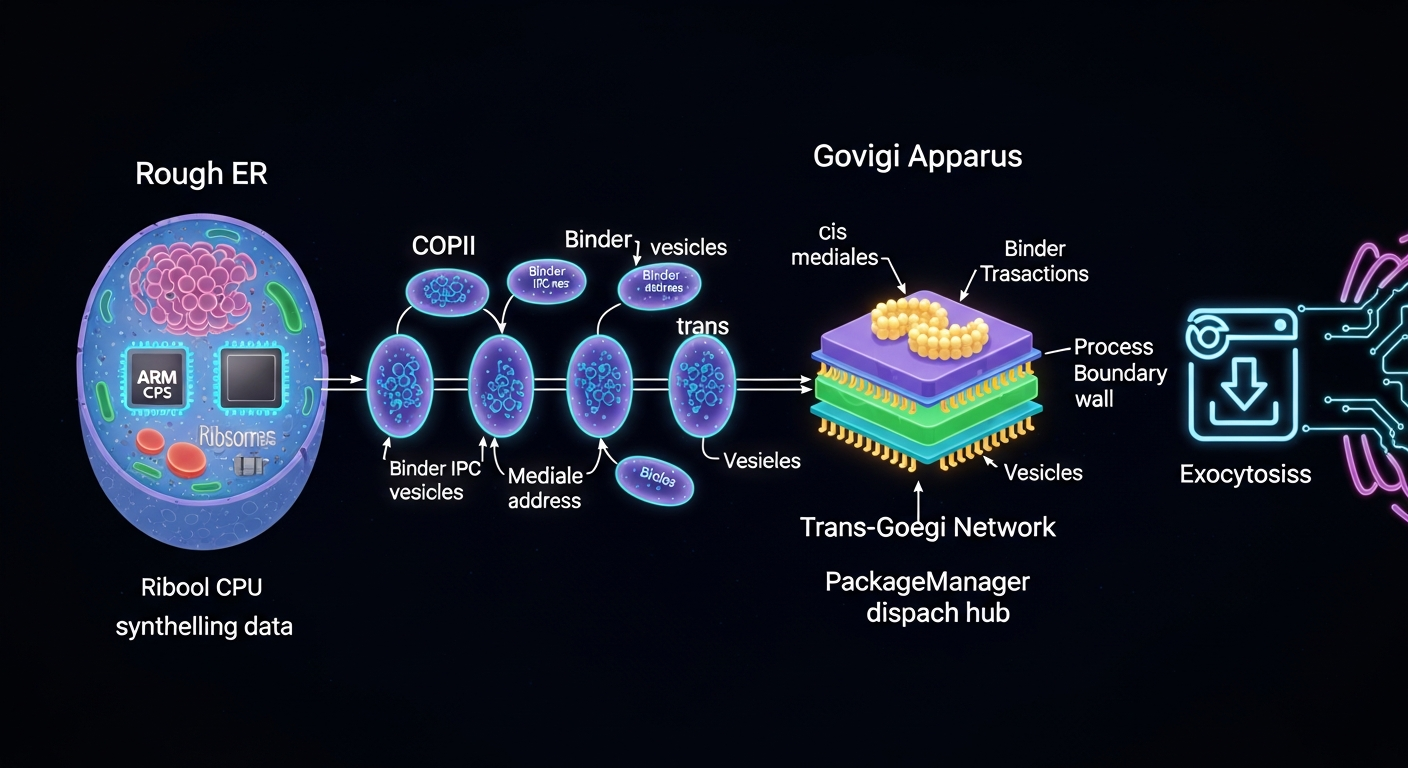
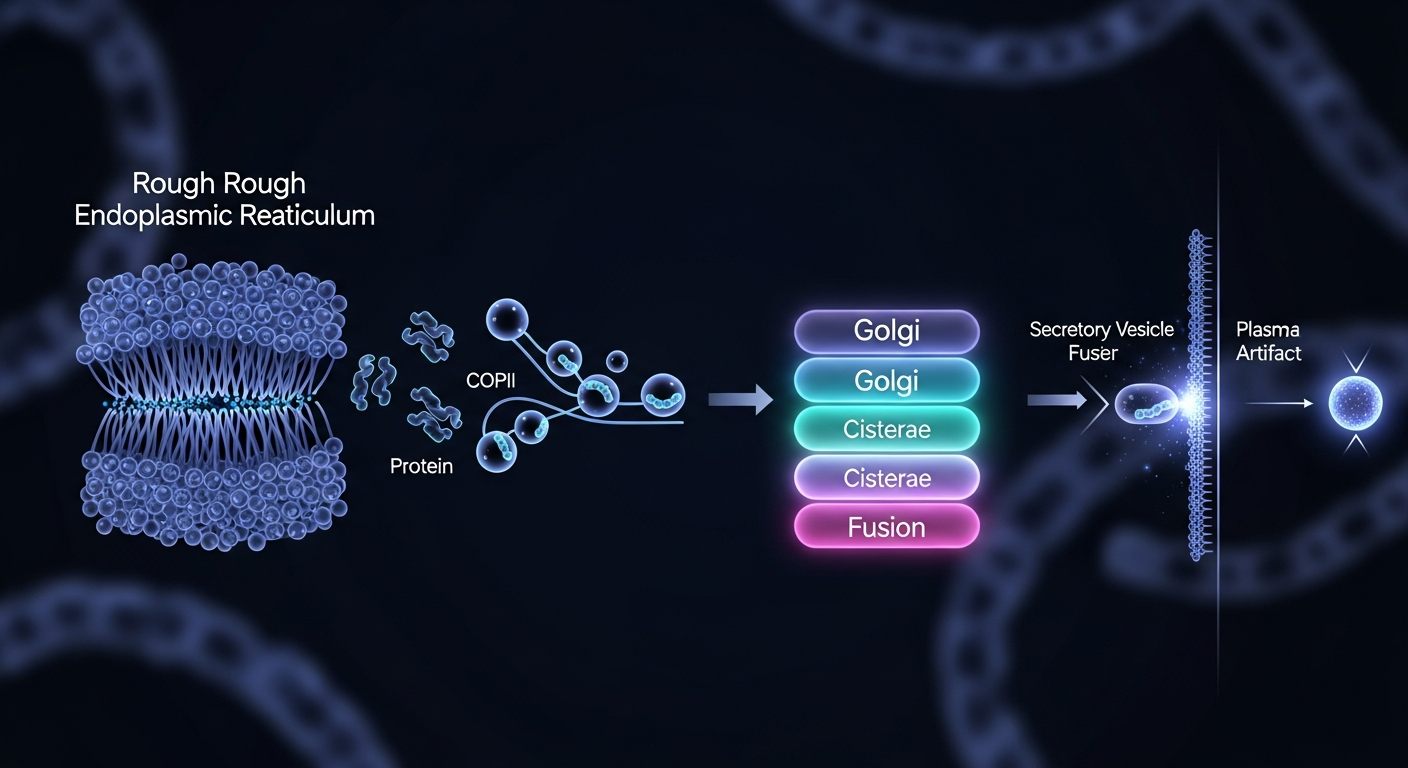
Update development forum with accuracy corrections and regenerate images
Fixes inaccuracies in the developer forum document, including zone IDs, scale definitions, coupling table values, code block syntax, persistence claims, API levels, routing descriptions, and biophoton weight representation. Regenerates two images to remove AI text artifacts.

Replit-Commit-Author: Agent
Replit-Commit-Session-Id: a63d2a4c-ce6d-4dfe-90c7-782e3523dac1
Replit-Commit-Checkpoint-Type: full_checkpoint
Replit-Commit-Event-Id: 143263ad-2268-465c-aafe-7b19629aaa83
Replit-Commit-Screenshot-Url: https://storage.googleapis.com/screenshot-production-us-central1/7aecbc02-2a0a-4613-a3d7-ad9ceed3b40e/a63d2a4c-ce6d-4dfe-90c7-782e3523dac1/O8Gu4pJ
Replit-Helium-Checkpoint-Created: true

diff --git a/artifacts/cell-os/docs/DEVELOPER_FORUM.md b/artifacts/cell-os/docs/DEVELOPER_FORUM.md
@@ -58,9 +58,9 @@ The QI tensor encodes this across three axes:
 
 | Axis | Dimension | Values |
 |---|---|---|
-| **Zone** (`z`) | 8 | nucleus, mitochondria, ribosomes, endoplasmic-reticulum, golgi, membrane, cytoskeleton, vacuole |
+| **Zone** (`z`) | 8 | nucleus, cytoplasm, cytoskeleton, ribosomes, mitochondria, golgi, endoplasmic-reticulum, membrane |
 | **Phase** (`p`) | 3 | perception, affect, expression |
-| **Scale** (`s`) | 11 | quantum, molecular, cellular, organic, textual, silicon, temporal, ecological, cosmological, social, mathematical |
+| **Scale** (`s`) | 11 | symbolic, quantum, molecular, cellular, organic, apparatus, textual, generational, relational, cosmic, silicon |
 
 Total tensor space: **8 × 3 × 11 = 264 cells**.
 
@@ -95,8 +95,8 @@ Each link couples a biological organelle to an Android/FP5 substrate component w
 | `golgi-apparatus` | `package-manager` | 0.85 | PackageManager (APK verify → dexopt → install) = trans-Golgi Network final dispatch. |
 | `golgi-apparatus` | `art-runtime` | 0.88 | dex2oat writes hardware-destination offsets = Golgi writes glycan address codes. |
 | `endoplasmic-reticulum` | `art-runtime` | 0.84 | BiP/calnexin quality gate + ERAD = ART verifier + JIT recompile + deopt/interpreter fallback. |
-| `cell-membrane` | `selinux` | high | SELinux Type Enforcement rules = tight junction paracellular seal. |
-| `mitochondria` | `powerhal` | 0.9 | PowerHAL thermal governor = mitochondrial electron transport chain throttling. |
+| `cell-membrane` | `selinux-policy` | 0.95 | SELinux Type Enforcement rules = tight junction paracellular seal. |
+| `mitochondria` | `powerhal` | 0.80 | PowerHAL thermal governor = mitochondrial electron transport chain throttling. |
 
 The full 41-link table is browsable on the `/substrate` surface.
 
@@ -119,7 +119,7 @@ The five secretory-pathway links in pathway order:
 | Link | $w$ | σ | IPC | Encodes |
 |---|---|---|---|---|
 | ribosomes → golgi | 0.62 | 0.7 | Messenger | mRNA-to-vesicle coherence; ART JIT→dex2oat dispatch |
-| ER → golgi | 0.16 | 0.6 | Ordered broadcast | ER→Golgi vesicle budding procession |
+| ER → golgi | *(derived)* | 0.6 | Ordered broadcast | ER→Golgi vesicle budding procession |
 | ER → lysosomes | 0.49 | 0.6 | Ordered broadcast | ER-phagy (FAM134B/RTN3 → autophagosome → bulk lysosomal degradation) |
 | ER → vesicles | 0.55 | 0.6 | Ordered broadcast | COPII budding (Sec23/Sec24 + Sec13/Sec31 + Sar1-GTP) |
 | vesicles → membrane | 0.65 | 0.7 | Messenger | SNARE exocytosis (VAMP2 + syntaxin-1 + SNAP-25, Ca²⁺/synaptotagmin) |
@@ -198,33 +198,32 @@ The classical eukaryotic secretory pathway is the clearest demonstration of the 
 ```ts
 // src/pages/documents.tsx — every line maps to a biological stage
 
-// Stage 1 — Ribosome: signal peptide detected → translation begins
-const handleGenerate = async () => {
-  if (sections.size === 0) return;              // ERAD: discard empty cargo immediately
+// Stage 1 — Ribosome: signal peptide detected, but no cargo → ERAD immediately
+if (sections.size === 0) return;
 
-  // Stage 2 — COPII coat assembly (on demand — lazy, like Sar1-GTP):
-  const { jsPDF } = await import("jspdf");
-  await import("jspdf-autotable");
+// Stage 2 — COPII coat assembly: lazy dynamic import (Sar1-GTP fires on demand)
+const { default: jsPDF }     = await import("jspdf");
+const { default: autoTable } = await import("jspdf-autotable");
 
-  // ER Exit Site: cargo concentrated before budding
-  const metrics = computeManifoldMetrics();
+// ER Exit Site: cargo concentrated before budding
+const metrics = computeManifoldMetrics();
 
-  // Stage 3 — Golgi: new cisterna opened
-  const doc = new jsPDF({ orientation: "portrait", format: "a4" });
+// Stage 3 — Golgi: cisternae open in sequence; each addSectionHeader = new cisterna
+//   signature: addSectionHeader(title: string, color: [R, G, B]) — no doc/y args
+//   y cursor advances internally (the ribosome reading frame never retreats)
+const doc = new jsPDF({ orientation: "portrait", unit: "mm", format: "a4" });
 
-  // Cisternae sequential processing (cis → medial → trans → TGN):
-  addSectionHeader(doc, "§ Manifold Metrics", y);        // cis
-  addSectionHeader(doc, "§ Organelle Mapping", y);       // medial
-  addSectionHeader(doc, "§ QI Intersections", y);        // trans (address labels)
-  addSectionHeader(doc, "§ Biophoton Attention Map", y); // TGN dispatch table
+addSectionHeader("§1  Manifold Health Metrics",         COL_P);   // cis
+addSectionHeader("§2  Organelle → OS Feature Mapping",  COL_A);   // medial
+addSectionHeader("§3  QI Tensor Intersections",         COL_G);   // trans (address labels)
+addSectionHeader("§4  Biophoton Attention Map",         COL_E);   // TGN dispatch table
 
-  // TGN: address written before vesicle is sealed
-  doc.text(`Generated: ${new Date().toISOString()}`, 14, 14);
+// lastAutoTable.finalY cast bridges cisternae — each chamber reports its exit to the next:
+y = (doc as any).lastAutoTable.finalY + 8;
 
-  // Stage 4 — SNARE exocytosis: single irreversible release
-  doc.save(`cell-os-manifold-${date}.pdf`);              // point of no return
-  // File crosses browser membrane → filesystem. Cannot be recalled.
-};
+// Stage 4 — SNARE exocytosis: single irreversible release
+doc.save(`cell-os-manifold-${dateStr}.pdf`);   // point of no return
+// File crosses the browser membrane → filesystem. Cannot be recalled.
 ```
 
 The `y`-cursor is the ribosome reading frame — it advances linearly and never retreats. The `lastAutoTable.finalY` cast (`(doc as any).lastAutoTable.finalY`) is the inter-cisternae signalling cascade: each chamber reports its exit position to the next.
@@ -281,11 +280,11 @@ recordVisit(organelleId, dwellMs);  // the only legal write path
 
 This mirrors receptor-mediated endocytosis: a ligand (user interaction) binds the receptor (UI event handler), which triggers the clathrin-coated pit assembly (`useMembraneObserver`), which routes the signal inward to the endosome (Zustand store). The membrane is selective — only interactions that pass through the observer gate modify the epigenome.
 
-### What the Epigenome Does Not Do
+### What the Epigenome Does and Does Not Do
 
-- It does not persist across sessions (the genome is eternal; the epigenome is seasonal)
-- It does not modify any value in `src/domain/content/` (the genome is read-only)
-- It does not export to the PDF (the secretory pathway exports only the static genome — session state is not a secretory product)
+- It **persists across sessions** via `localStorage` (key: `cell-os-epigenome-v1`, managed by Zustand `persist` middleware) — the epigenome carries forward what you have explored
+- It does not modify any value in `src/domain/content/` (the genome is read-only — the epigenome is layered on top, never inside)
+- It does not export to the PDF (the secretory pathway exports only the static genome — session weights are not a secretory product)
 
 ---
 
@@ -322,7 +321,7 @@ This is the connexin-43 gap junction: two process membranes aligned, aqueous cha
 
 ### Android 13 — FP5 Launch: The Cell Reaches Maturity
 
-The Fairphone 5 launched on Android 13 (AIDL-native mandatory from API 31). SELinux Type Enforcement rules become the paracellular seal — no cross-domain passage is permitted unless an explicit LSM hook grants it. Every inter-process boundary is now mediated.
+The Fairphone 5 launched on Android 13 (AIDL-native mandatory from API 33). SELinux Type Enforcement rules become the paracellular seal — no cross-domain passage is permitted unless an explicit LSM hook grants it. Every inter-process boundary is now mediated.
 
 This is the Cell OS reference hardware. Android 13 on FP5 is the cell in its mature, homeostatic form. The membrane is complete. The Fredholm index is fixed at −2. The organism is closed.
 
@@ -354,7 +353,7 @@ Two concrete future milestones are anchored in the tensor:
 ```
 Runtime:        React 18 + Vite 5 (pnpm monorepo workspace)
 Styling:        Tailwind CSS v4 (JIT — see invariant below)
-Routing:        wouter (lightweight, hash-based for SPA)
+Routing:        wouter (lightweight, path-based with base-path prefix for SPA)
 UI components:  shadcn/ui
 State:          Zustand (epigenome tensors only; genome is static)
 PDF export:     jsPDF + jspdf-autotable (dynamic import — COPII pattern)
